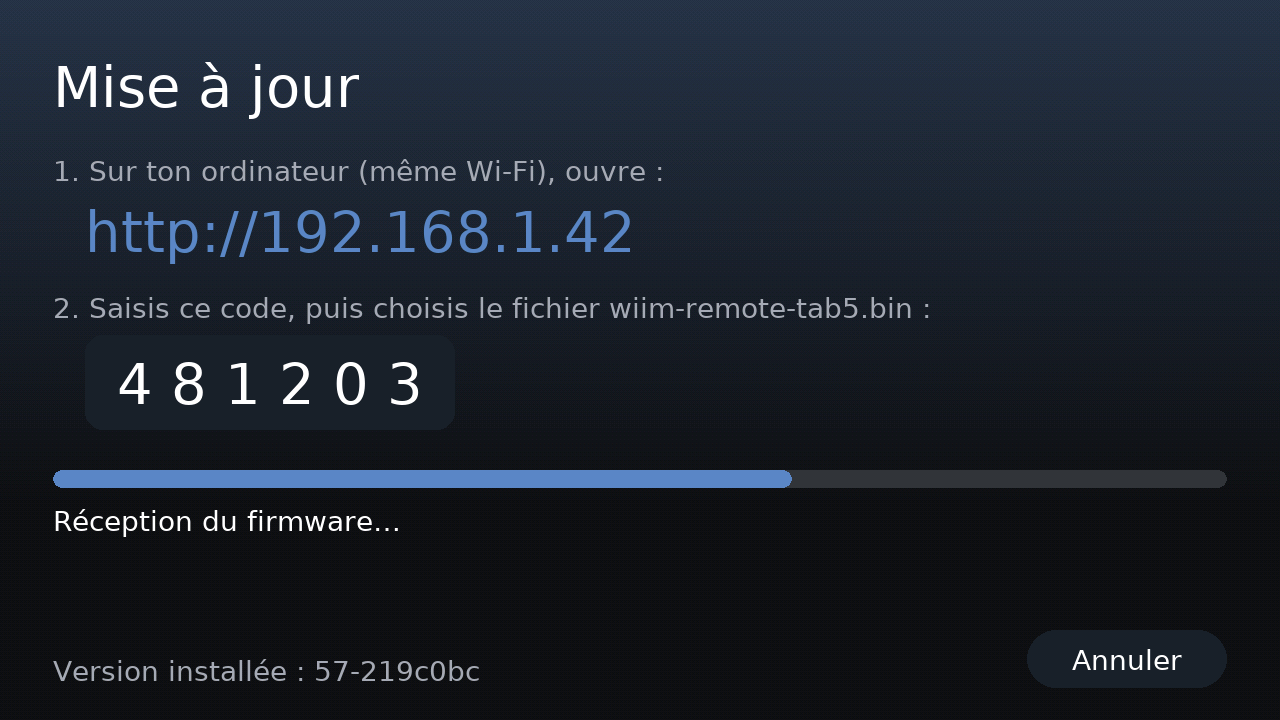
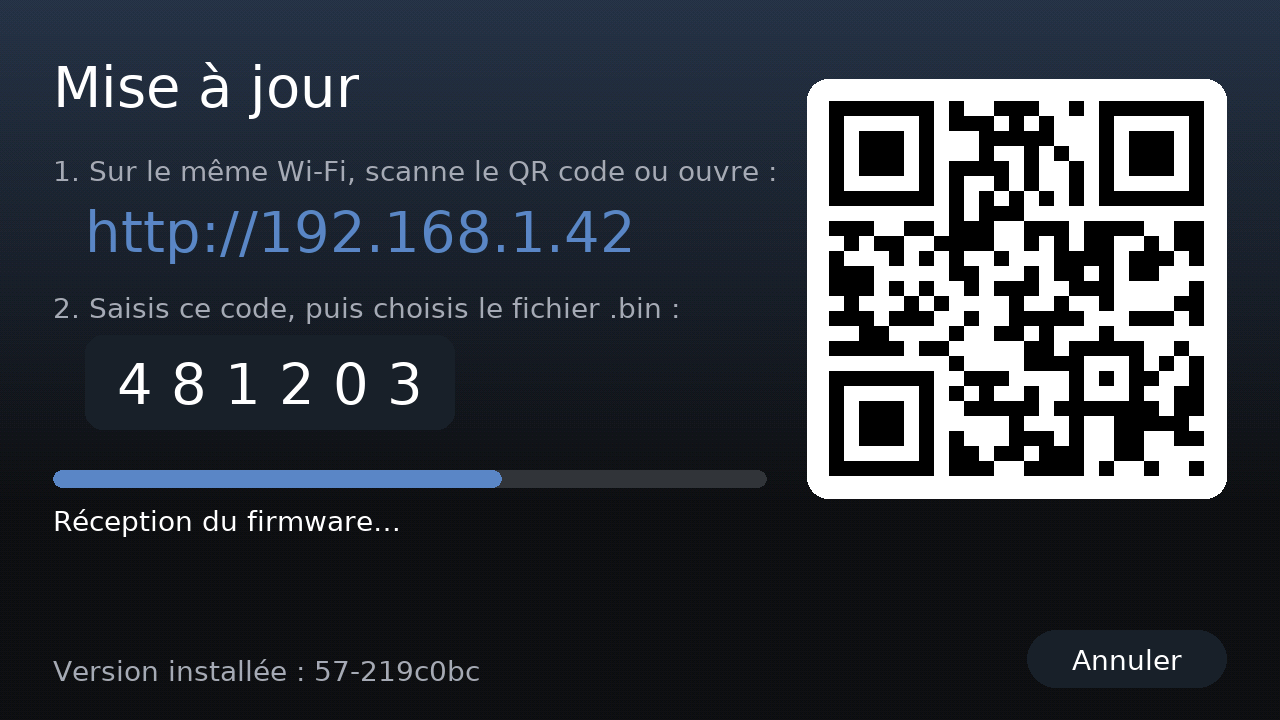
Update screen: QR code of the update page; no .bin filter in the file picker
A phone can now open the update page by scanning the QR code on the Tab5 (no typing, and no
https:// added by the browser). The file input no longer has accept=.bin, which can grey out
the firmware file on some phones; the firmware filter still rejects wrong files.
README/LISEZMOI: steps for a phone and what to check if the page does not open.

QR code checked with a decoder on the PC preview; not verified on hardware yet.

Claude-Session: https://claude.ai/code/session_0152wyqkiqhptDhQgZaKHpmX

Changed region(s): [[0.375, 0.0917, 0.9688, 0.7028], [0.125, 0.2139, 0.5938, 0.275]]

diff --git a/src/ui.cpp b/src/ui.cpp
@@ -1499,6 +1499,14 @@ void Ui::showUpdate(const String& url, const String& code, const char* version, 
     auto& C = canvas_;
     background();
     const int W = C.width(), H = C.height(), m = sc(40);
+    const bool landscape = W > H;
+    // QR code de l'adresse : le téléphone ouvre la page sans rien taper (et sans « https:// » ajouté par le navigateur)
+    const int pad = sc(14);
+    const int qr = landscape ? std::min(H - 2 * m - sc(150), W * 3 / 10) : W / 2;
+    const int qx = landscape ? W - m - pad - qr : (W - qr) / 2;
+    const int qy = landscape ? m + sc(20) + pad : H - sc(24) - sc(44) - sc(40) - pad - qr;
+    C.fillRoundRect(qx - pad, qy - pad, qr + 2 * pad, qr + 2 * pad, sc(16), kText);
+    C.qrcode(url.c_str(), qx, qy, qr);
     C.setTextDatum(textdatum_t::top_left);
     useFont(C, kBig);
     C.setTextColor(kText);
@@ -1506,7 +1514,7 @@ void Ui::showUpdate(const String& url, const String& code, const char* version, 
     int y = m + C.fontHeight() + sc(24);
     useFont(C, kSmall);
     C.setTextColor(kText2);
-    C.drawString("1. Sur ton ordinateur (m\xC3\xAAme Wi-Fi), ouvre :", m, y);
+    C.drawString("1. Sur le m\xC3\xAAme Wi-Fi, scanne le QR code ou ouvre :", m, y);
     y += C.fontHeight() + sc(8);
     useFont(C, kBig);
     C.setTextColor(accent_);
@@ -1514,7 +1522,7 @@ void Ui::showUpdate(const String& url, const String& code, const char* version, 
     y += C.fontHeight() + sc(18);
     useFont(C, kSmall);
     C.setTextColor(kText2);
-    C.drawString("2. Saisis ce code, puis choisis le fichier wiim-remote-tab5.bin :", m, y);
+    C.drawString("2. Saisis ce code, puis choisis le fichier .bin :", m, y);
     y += C.fontHeight() + sc(8);
     // Code en gros, chiffres espacés
     useFont(C, kBig);
@@ -1534,7 +1542,7 @@ void Ui::showUpdate(const String& url, const String& code, const char* version, 
     useFont(C, kSmall);
     C.setTextDatum(textdatum_t::top_left);
     if (percent >= 0) {
-        const int bw = W - 2 * m, bh = sc(14);
+        const int bw = landscape ? qx - pad - sc(30) - m : W - 2 * m, bh = sc(14);
         C.fillRoundRect(m, y, bw, bh, bh / 2, kTrack);
         C.fillRoundRect(m, y, std::max(bh, bw * std::min(100, percent) / 100), bh, bh / 2, accent_);
         y += bh + sc(12);

diff --git a/src/ota.cpp b/src/ota.cpp
@@ -19,7 +19,7 @@ static const char kPage[] PROGMEM = R"HTML(<title>Mise à jour du Tab5</title><s
 <header><div class=logo><i></i></div><div><h1>Mise à jour</h1><p>Télécommande WiiM · version <b>%VERSION%</b></p></div></header>
 <form id=f class=card><label for=code>Code affiché sur le Tab5</label>
 <input id=code name=code inputmode=numeric autocomplete=one-time-code maxlength=6 pattern='[0-9]{6}' placeholder='······' required>
-<label>Firmware</label><label class=file id=z><input type=file name=fw id=fw accept=.bin required>
+<label>Firmware</label><label class=file id=z><input type=file name=fw id=fw required>
 <span id=n>Choisir <b>wiim-remote-tab5.bin</b></span></label>
 <small>Le fichier de la dernière version sur GitHub (dézippé s'il est dans un .zip).</small>
 <button class=btn id=go>Installer</button>

diff --git a/LISEZMOI.md b/LISEZMOI.md
@@ -85,9 +85,11 @@ recherche tapée au clavier ; touche celui à écouter.
 Une fois ce firmware installé par USB, les versions suivantes s'installent sans câble :
 
 1. Télécharge l'artefact **wiim-remote-tab5** de la dernière exécution (onglet **Actions** de GitHub) et dézippe-le.
-2. Sur le Tab5 : bouton ⚙ (barre de gauche) → **Mise à jour**. L'écran affiche une adresse (`http://192.168.x.x`) et un code à 6 chiffres.
-3. Sur un ordinateur du même Wi-Fi, ouvre cette adresse, saisis le code, choisis `wiim-remote-tab5.bin`, **Installer**.
-4. Une barre de progression s'affiche sur l'ordinateur et sur le Tab5, puis il redémarre sur la nouvelle version (affichée en bas du menu Réglages).
+2. Sur le Tab5 : bouton ⚙ (barre de gauche) → **Mise à jour**. L'écran affiche un QR code, une adresse (`http://192.168.x.x`) et un code à 6 chiffres.
+3. Sur un téléphone ou un ordinateur du même Wi-Fi, scanne le QR code ou ouvre cette adresse, saisis le code, choisis le fichier `.bin`, **Installer**.
+4. Une barre de progression s'affiche sur le téléphone (ou l'ordinateur) et sur le Tab5, puis il redémarre sur la nouvelle version (affichée en bas du menu Réglages).
+
+La page ne s'ouvre pas sur le téléphone ? Coupe les données mobiles et vérifie qu'il est sur le Wi-Fi de la maison (pas un réseau invité). L'adresse doit commencer par `http://` et non `https://`. Sur iPhone avec un autre navigateur que Safari : Réglages › ce navigateur › autoriser « Réseau local ».
 
 C'est le même fichier que pour le flash USB : le Tab5 n'en garde que la partie utile. Le nouveau firmware est écrit à côté de l'ancien et vérifié avant d'être utilisé : un fichier incomplet, pour un autre appareil ou interrompu en route laisse l'ancien en place. Le mode mise à jour se ferme avec **Annuler**, après 5 codes faux ou au bout de 10 minutes.
 

diff --git a/README.md b/README.md
@@ -149,14 +149,21 @@ You need Chrome or Edge on a computer. You do not have to install software.
 ### Update the firmware later
 
 1. On the Tab5, touch the ⚙ button in the left bar.
-2. Select **Mise à jour** (update). The Tab5 shows an address and a 6-digit code.
-3. On a computer on the same network, open the address in a web browser.
-4. Type the code and select the new `.bin` file.
-5. Click **Installer** (install). The Tab5 restarts with the new firmware.
+2. Select **Mise à jour** (update). The Tab5 shows a QR code, an address and a 6-digit code.
+3. Connect a phone or a computer to the same Wi-Fi network as the Tab5.
+4. Scan the QR code with the phone. Or type the address in a web browser. Start the address with `http://`.
+5. Type the code and select the new `.bin` file.
+6. Click **Installer** (install). The Tab5 restarts with the new firmware.
+
+If the page does not open on a phone:
+- Turn off mobile data. Make sure that the phone uses the home Wi-Fi, not a guest network.
+- Make sure that the address starts with `http://`, not `https://`. The Tab5 has no HTTPS page.
+- On an iPhone, with a browser other than Safari: allow "Local Network" for this browser in Settings.
 
 Note: an update keeps your settings (Wi-Fi, WiiM, OpenAI key, options) and your favorites. A complete USB flash at
 address `0x0` erases the settings area, but the Tab5 also keeps a copy of the settings with the favorites. At the
-next start, it puts the settings back from this copy. To erase everything, use "Erase flash" in esptool-js.
+next start, it puts the settings back from this copy. To erase everything, use **Tout effacer** (erase all) in
+the **Avancé** section of the setup page, or "Erase flash" in esptool-js.
 
 A full guide in French is in [LISEZMOI.md](LISEZMOI.md).
 

diff --git a/CHANGELOG.md b/CHANGELOG.md
@@ -8,6 +8,8 @@ Versions follow [Semantic Versioning](https://semver.org/). Firmware builds show
 Hardware testing in progress.
 
 ### Added
+- Update screen: QR code of the update page, so a phone opens it without typing the address. The page no
+  longer filters the file picker on `.bin` (some phones greyed the file out).
 - Setup page › *Avancé* › *Tout effacer*: factory reset (settings, OpenAI key, favorites and their backup).
 - Memory report in the Journal at start and every 10 minutes (internal heap, minimum, PSRAM, WiiM task stack), to
   find leaks in long tests.
